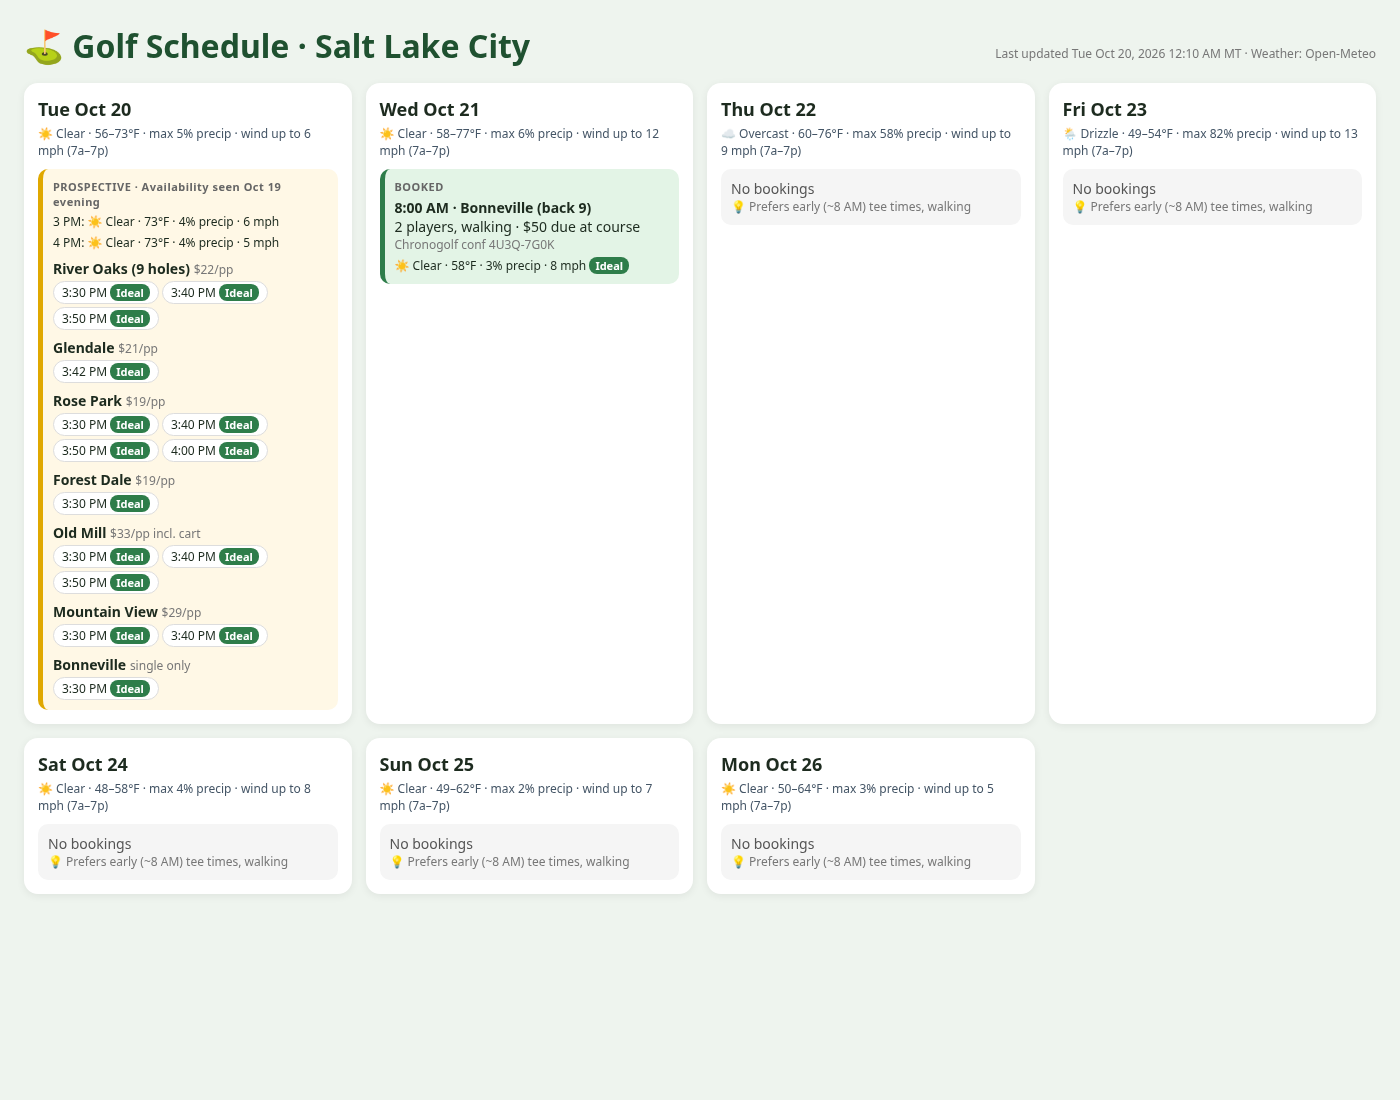
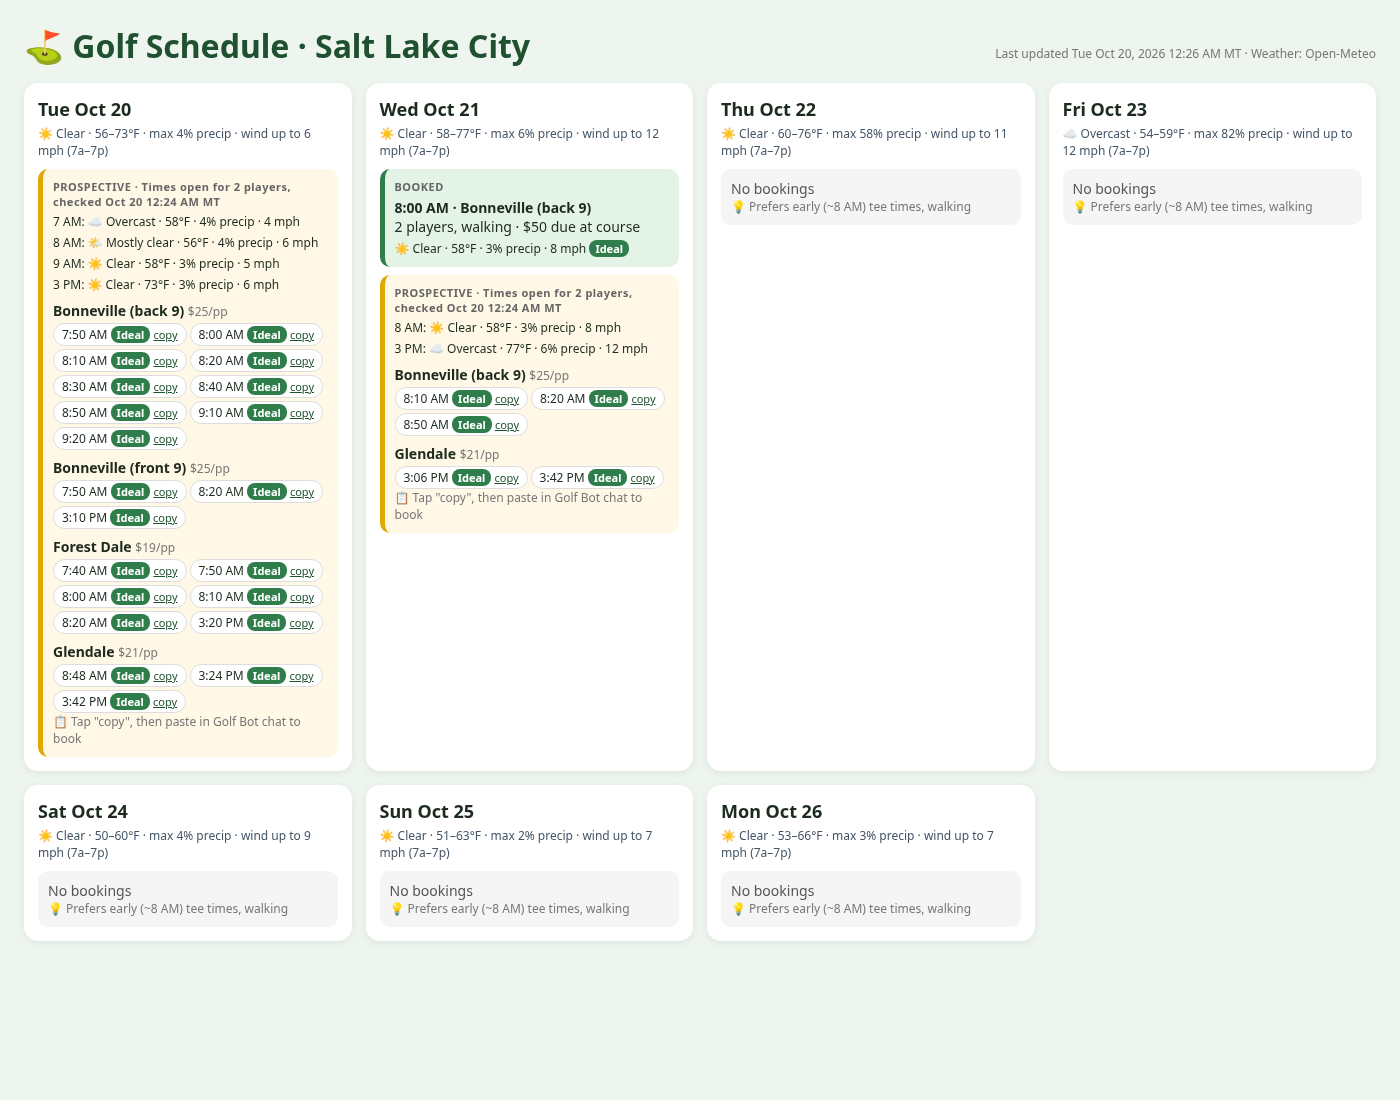
Update schedule 2026-10-20 00:26 MT

diff --git a/index.html b/index.html
@@ -9,5 +9,5 @@ h1{margin:0;color:#1f5130} .top{display:flex;justify-content:space-between;align
 .muted{color:#777;font-size:12px} .wx{font-size:12px;margin-top:4px} .prow{margin-top:8px}
 .copy{font-size:11px;color:#1f5130} .chip{display:inline-block;background:#fff;border:1px solid #ddd;border-radius:14px;padding:2px 8px;margin:3px 3px 0 0;font-size:12px}
 .badge{border-radius:8px;padding:1px 6px;font-size:11px;font-weight:700;color:#fff} .ideal{background:#2e7d4a} .ok{background:#d08b00} .poor{background:#c0392b} .na{background:#888}
-</style></head><body><div class="top"><h1>⛳ Golf Schedule · Salt Lake City</h1><div class="muted">Last updated Tue Oct 20, 2026 12:17 AM MT · Weather: Open-Meteo</div></div>
-<div class="grid"><section class="day"><h2>Tue Oct 20</h2><div class="sum">☀ Clear · 56–73°F · max 4% precip · wind up to 6 mph (7a–7p)</div><div class="slot prospect"><div class="tag">PROSPECTIVE · Availability seen Oct 19 evening</div><div class="wx">3 PM: ☀ Clear · 73°F · 3% precip · 6 mph</div><div class="wx">4 PM: ☀ Clear · 73°F · 3% precip · 5 mph</div><div class="prow"><b>River Oaks (9 holes)</b> <span class="muted">$22/pp</span><div><span class="chip">3:30 PM <span class="badge ideal" title="☀ Clear · 73°F · 3% precip · 6 mph">Ideal</span> <a href="#" class="copy" data-msg="Book River Oaks (9 holes) Tue Oct 20 3:30 PM" onclick="navigator.clipboard.writeText(this.dataset.msg);this.textContent='copied!';return false">copy</a></span><span class="chip">3:40 PM <span class="badge ideal" title="☀ Clear · 73°F · 3% precip · 6 mph">Ideal</span> <a href="#" class="copy" data-msg="Book River Oaks (9 holes) Tue Oct 20 3:40 PM" onclick="navigator.clipboard.writeText(this.dataset.msg);this.textContent='copied!';return false">copy</a></span><span class="chip">3:50 PM <span class="badge ideal" title="☀ Clear · 73°F · 3% precip · 6 mph">Ideal</span> <a href="#" class="copy" data-msg="Book River Oaks (9 holes) Tue Oct 20 3:50 PM" onclick="navigator.clipboard.writeText(this.dataset.msg);this.textContent='copied!';return false">copy</a></span></div></div><div class="prow"><b>Glendale</b> <span class="muted">$21/pp</span><div><span class="chip">3:42 PM <span class="badge ideal" title="☀ Clear · 73°F · 3% precip · 6 mph">Ideal</span> <a href="#" class="copy" data-msg="Book Glendale Tue Oct 20 3:42 PM" onclick="navigator.clipboard.writeText(this.dataset.msg);this.textContent='copied!';return false">copy</a></span></div></div><div class="prow"><b>Rose Park</b> <span class="muted">$19/pp</span><div><span class="chip">3:30 PM <span class="badge ideal" title="☀ Clear · 73°F · 3% precip · 6 mph">Ideal</span> <a href="#" class="copy" data-msg="Book Rose Park Tue Oct 20 3:30 PM" onclick="navigator.clipboard.writeText(this.dataset.msg);this.textContent='copied!';return false">copy</a></span><span class="chip">3:40 PM <span class="badge ideal" title="☀ Clear · 73°F · 3% precip · 6 mph">Ideal</span> <a href="#" class="copy" data-msg="Book Rose Park Tue Oct 20 3:40 PM" onclick="navigator.clipboard.writeText(this.dataset.msg);this.textContent='copied!';return false">copy</a></span><span class="chip">3:50 PM <span class="badge ideal" title="☀ Clear · 73°F · 3% precip · 6 mph">Ideal</span> <a href="#" class="copy" data-msg="Book Rose Park Tue Oct 20 3:50 PM" onclick="navigator.clipboard.writeText(this.dataset.msg);this.textContent='copied!';return false">copy</a></span><span class="chip">4:00 PM <span class="badge ideal" title="☀ Clear · 73°F · 3% precip · 5 mph">Ideal</span> <a href="#" class="copy" data-msg="Book Rose Park Tue Oct 20 4:00 PM" onclick="navigator.clipboard.writeText(this.dataset.msg);this.textContent='copied!';return false">copy</a></span></div></div><div class="prow"><b>Forest Dale</b> <span class="muted">$19/pp</span><div><span class="chip">3:30 PM <span class="badge ideal" title="☀ Clear · 73°F · 3% precip · 6 mph">Ideal</span> <a href="#" class="copy" data-msg="Book Forest Dale Tue Oct 20 3:30 PM" onclick="navigator.clipboard.writeText(this.dataset.msg);this.textContent='copied!';return false">copy</a></span></div></div><div class="prow"><b>Old Mill</b> <span class="muted">$33/pp incl. cart</span><div><span class="chip">3:30 PM <span class="badge ideal" title="☀ Clear · 73°F · 3% precip · 6 mph">Ideal</span> <a href="#" class="copy" data-msg="Book Old Mill Tue Oct 20 3:30 PM" onclick="navigator.clipboard.writeText(this.dataset.msg);this.textContent='copied!';return false">copy</a></span><span class="chip">3:40 PM <span class="badge ideal" title="☀ Clear · 73°F · 3% precip · 6 mph">Ideal</span> <a href="#" class="copy" data-msg="Book Old Mill Tue Oct 20 3:40 PM" onclick="navigator.clipboard.writeText(this.dataset.msg);this.textContent='copied!';return false">copy</a></span><span class="chip">3:50 PM <span class="badge ideal" title="☀ Clear · 73°F · 3% precip · 6 mph">Ideal</span> <a href="#" class="copy" data-msg="Book Old Mill Tue Oct 20 3:50 PM" onclick="navigator.clipboard.writeText(this.dataset.msg);this.textContent='copied!';return false">copy</a></span></div></div><div class="prow"><b>Mountain View</b> <span class="muted">$29/pp</span><div><span class="chip">3:30 PM <span class="badge ideal" title="☀ Clear · 73°F · 3% precip · 6 mph">Ideal</span> <a href="#" class="copy" data-msg="Book Mountain View Tue Oct 20 3:30 PM" onclick="navigator.clipboard.writeText(this.dataset.msg);this.textContent='copied!';return false">copy</a></span><span class="chip">3:40 PM <span class="badge ideal" title="☀ Clear · 73°F · 3% precip · 6 mph">Ideal</span> <a href="#" class="copy" data-msg="Book Mountain View Tue Oct 20 3:40 PM" onclick="navigator.clipboard.writeText(this.dataset.msg);this.textContent='copied!';return false">copy</a></span></div></div><div class="prow"><b>Bonneville</b> <span class="muted">single only</span><div><span class="chip">3:30 PM <span class="badge ideal" title="☀ Clear · 73°F · 3% precip · 6 mph">Ideal</span> <a href="#" class="copy" data-msg="Book Bonneville Tue Oct 20 3:30 PM" onclick="navigator.clipboard.writeText(this.dataset.msg);this.textContent='copied!';return false">copy</a></span></div></div><div class="muted">📋 Tap "copy", then paste in Golf Bot chat to book</div></div></section><section class="day"><h2>Wed Oct 21</h2><div class="sum">☀ Clear · 58–77°F · max 6% precip · wind up to 12 mph (7a–7p)</div><div class="slot booked"><div class="tag">BOOKED</div><b>8:00 AM · Bonneville (back 9)</b><div>2 players, walking · $50 due at course</div><div class="wx">☀ Clear · 58°F · 3% precip · 8 mph <span class="badge ideal">Ideal</span></div></div></section><section class="day"><h2>Thu Oct 22</h2><div class="sum">☀ Clear · 60–76°F · max 58% precip · wind up to 11 mph (7a–7p)</div><div class="slot empty">No bookings<div class="muted">💡 Prefers early (~8 AM) tee times, walking</div></div></section><section class="day"><h2>Fri Oct 23</h2><div class="sum">☁ Overcast · 54–59°F · max 82% precip · wind up to 12 mph (7a–7p)</div><div class="slot empty">No bookings<div class="muted">💡 Prefers early (~8 AM) tee times, walking</div></div></section><section class="day"><h2>Sat Oct 24</h2><div class="sum">☀ Clear · 50–60°F · max 4% precip · wind up to 9 mph (7a–7p)</div><div class="slot empty">No bookings<div class="muted">💡 Prefers early (~8 AM) tee times, walking</div></div></section><section class="day"><h2>Sun Oct 25</h2><div class="sum">☀ Clear · 51–63°F · max 2% precip · wind up to 7 mph (7a–7p)</div><div class="slot empty">No bookings<div class="muted">💡 Prefers early (~8 AM) tee times, walking</div></div></section><section class="day"><h2>Mon Oct 26</h2><div class="sum">☀ Clear · 53–66°F · max 3% precip · wind up to 7 mph (7a–7p)</div><div class="slot empty">No bookings<div class="muted">💡 Prefers early (~8 AM) tee times, walking</div></div></section></div></body></html>
+</style></head><body><div class="top"><h1>⛳ Golf Schedule · Salt Lake City</h1><div class="muted">Last updated Tue Oct 20, 2026 12:26 AM MT · Weather: Open-Meteo</div></div>
+<div class="grid"><section class="day"><h2>Tue Oct 20</h2><div class="sum">☀ Clear · 56–73°F · max 4% precip · wind up to 6 mph (7a–7p)</div><div class="slot prospect"><div class="tag">PROSPECTIVE · Times open for 2 players, checked Oct 20 12:24 AM MT</div><div class="wx">7 AM: ☁ Overcast · 58°F · 4% precip · 4 mph</div><div class="wx">8 AM: 🌤 Mostly clear · 56°F · 4% precip · 6 mph</div><div class="wx">9 AM: ☀ Clear · 58°F · 3% precip · 5 mph</div><div class="wx">3 PM: ☀ Clear · 73°F · 3% precip · 6 mph</div><div class="prow"><b>Bonneville (back 9)</b> <span class="muted">$25/pp</span><div><span class="chip">7:50 AM <span class="badge ideal" title="☁ Overcast · 58°F · 4% precip · 4 mph">Ideal</span> <a href="#" class="copy" data-msg="Book Bonneville (back 9) Tue Oct 20 7:50 AM" onclick="navigator.clipboard.writeText(this.dataset.msg);this.textContent='copied!';return false">copy</a></span><span class="chip">8:00 AM <span class="badge ideal" title="🌤 Mostly clear · 56°F · 4% precip · 6 mph">Ideal</span> <a href="#" class="copy" data-msg="Book Bonneville (back 9) Tue Oct 20 8:00 AM" onclick="navigator.clipboard.writeText(this.dataset.msg);this.textContent='copied!';return false">copy</a></span><span class="chip">8:10 AM <span class="badge ideal" title="🌤 Mostly clear · 56°F · 4% precip · 6 mph">Ideal</span> <a href="#" class="copy" data-msg="Book Bonneville (back 9) Tue Oct 20 8:10 AM" onclick="navigator.clipboard.writeText(this.dataset.msg);this.textContent='copied!';return false">copy</a></span><span class="chip">8:20 AM <span class="badge ideal" title="🌤 Mostly clear · 56°F · 4% precip · 6 mph">Ideal</span> <a href="#" class="copy" data-msg="Book Bonneville (back 9) Tue Oct 20 8:20 AM" onclick="navigator.clipboard.writeText(this.dataset.msg);this.textContent='copied!';return false">copy</a></span><span class="chip">8:30 AM <span class="badge ideal" title="🌤 Mostly clear · 56°F · 4% precip · 6 mph">Ideal</span> <a href="#" class="copy" data-msg="Book Bonneville (back 9) Tue Oct 20 8:30 AM" onclick="navigator.clipboard.writeText(this.dataset.msg);this.textContent='copied!';return false">copy</a></span><span class="chip">8:40 AM <span class="badge ideal" title="🌤 Mostly clear · 56°F · 4% precip · 6 mph">Ideal</span> <a href="#" class="copy" data-msg="Book Bonneville (back 9) Tue Oct 20 8:40 AM" onclick="navigator.clipboard.writeText(this.dataset.msg);this.textContent='copied!';return false">copy</a></span><span class="chip">8:50 AM <span class="badge ideal" title="🌤 Mostly clear · 56°F · 4% precip · 6 mph">Ideal</span> <a href="#" class="copy" data-msg="Book Bonneville (back 9) Tue Oct 20 8:50 AM" onclick="navigator.clipboard.writeText(this.dataset.msg);this.textContent='copied!';return false">copy</a></span><span class="chip">9:10 AM <span class="badge ideal" title="☀ Clear · 58°F · 3% precip · 5 mph">Ideal</span> <a href="#" class="copy" data-msg="Book Bonneville (back 9) Tue Oct 20 9:10 AM" onclick="navigator.clipboard.writeText(this.dataset.msg);this.textContent='copied!';return false">copy</a></span><span class="chip">9:20 AM <span class="badge ideal" title="☀ Clear · 58°F · 3% precip · 5 mph">Ideal</span> <a href="#" class="copy" data-msg="Book Bonneville (back 9) Tue Oct 20 9:20 AM" onclick="navigator.clipboard.writeText(this.dataset.msg);this.textContent='copied!';return false">copy</a></span></div></div><div class="prow"><b>Bonneville (front 9)</b> <span class="muted">$25/pp</span><div><span class="chip">7:50 AM <span class="badge ideal" title="☁ Overcast · 58°F · 4% precip · 4 mph">Ideal</span> <a href="#" class="copy" data-msg="Book Bonneville (front 9) Tue Oct 20 7:50 AM" onclick="navigator.clipboard.writeText(this.dataset.msg);this.textContent='copied!';return false">copy</a></span><span class="chip">8:20 AM <span class="badge ideal" title="🌤 Mostly clear · 56°F · 4% precip · 6 mph">Ideal</span> <a href="#" class="copy" data-msg="Book Bonneville (front 9) Tue Oct 20 8:20 AM" onclick="navigator.clipboard.writeText(this.dataset.msg);this.textContent='copied!';return false">copy</a></span><span class="chip">3:10 PM <span class="badge ideal" title="☀ Clear · 73°F · 3% precip · 6 mph">Ideal</span> <a href="#" class="copy" data-msg="Book Bonneville (front 9) Tue Oct 20 3:10 PM" onclick="navigator.clipboard.writeText(this.dataset.msg);this.textContent='copied!';return false">copy</a></span></div></div><div class="prow"><b>Forest Dale</b> <span class="muted">$19/pp</span><div><span class="chip">7:40 AM <span class="badge ideal" title="☁ Overcast · 58°F · 4% precip · 4 mph">Ideal</span> <a href="#" class="copy" data-msg="Book Forest Dale Tue Oct 20 7:40 AM" onclick="navigator.clipboard.writeText(this.dataset.msg);this.textContent='copied!';return false">copy</a></span><span class="chip">7:50 AM <span class="badge ideal" title="☁ Overcast · 58°F · 4% precip · 4 mph">Ideal</span> <a href="#" class="copy" data-msg="Book Forest Dale Tue Oct 20 7:50 AM" onclick="navigator.clipboard.writeText(this.dataset.msg);this.textContent='copied!';return false">copy</a></span><span class="chip">8:00 AM <span class="badge ideal" title="🌤 Mostly clear · 56°F · 4% precip · 6 mph">Ideal</span> <a href="#" class="copy" data-msg="Book Forest Dale Tue Oct 20 8:00 AM" onclick="navigator.clipboard.writeText(this.dataset.msg);this.textContent='copied!';return false">copy</a></span><span class="chip">8:10 AM <span class="badge ideal" title="🌤 Mostly clear · 56°F · 4% precip · 6 mph">Ideal</span> <a href="#" class="copy" data-msg="Book Forest Dale Tue Oct 20 8:10 AM" onclick="navigator.clipboard.writeText(this.dataset.msg);this.textContent='copied!';return false">copy</a></span><span class="chip">8:20 AM <span class="badge ideal" title="🌤 Mostly clear · 56°F · 4% precip · 6 mph">Ideal</span> <a href="#" class="copy" data-msg="Book Forest Dale Tue Oct 20 8:20 AM" onclick="navigator.clipboard.writeText(this.dataset.msg);this.textContent='copied!';return false">copy</a></span><span class="chip">3:20 PM <span class="badge ideal" title="☀ Clear · 73°F · 3% precip · 6 mph">Ideal</span> <a href="#" class="copy" data-msg="Book Forest Dale Tue Oct 20 3:20 PM" onclick="navigator.clipboard.writeText(this.dataset.msg);this.textContent='copied!';return false">copy</a></span></div></div><div class="prow"><b>Glendale</b> <span class="muted">$21/pp</span><div><span class="chip">8:48 AM <span class="badge ideal" title="🌤 Mostly clear · 56°F · 4% precip · 6 mph">Ideal</span> <a href="#" class="copy" data-msg="Book Glendale Tue Oct 20 8:48 AM" onclick="navigator.clipboard.writeText(this.dataset.msg);this.textContent='copied!';return false">copy</a></span><span class="chip">3:24 PM <span class="badge ideal" title="☀ Clear · 73°F · 3% precip · 6 mph">Ideal</span> <a href="#" class="copy" data-msg="Book Glendale Tue Oct 20 3:24 PM" onclick="navigator.clipboard.writeText(this.dataset.msg);this.textContent='copied!';return false">copy</a></span><span class="chip">3:42 PM <span class="badge ideal" title="☀ Clear · 73°F · 3% precip · 6 mph">Ideal</span> <a href="#" class="copy" data-msg="Book Glendale Tue Oct 20 3:42 PM" onclick="navigator.clipboard.writeText(this.dataset.msg);this.textContent='copied!';return false">copy</a></span></div></div><div class="muted">📋 Tap "copy", then paste in Golf Bot chat to book</div></div></section><section class="day"><h2>Wed Oct 21</h2><div class="sum">☀ Clear · 58–77°F · max 6% precip · wind up to 12 mph (7a–7p)</div><div class="slot booked"><div class="tag">BOOKED</div><b>8:00 AM · Bonneville (back 9)</b><div>2 players, walking · $50 due at course</div><div class="wx">☀ Clear · 58°F · 3% precip · 8 mph <span class="badge ideal">Ideal</span></div></div><div class="slot prospect"><div class="tag">PROSPECTIVE · Times open for 2 players, checked Oct 20 12:24 AM MT</div><div class="wx">8 AM: ☀ Clear · 58°F · 3% precip · 8 mph</div><div class="wx">3 PM: ☁ Overcast · 77°F · 6% precip · 12 mph</div><div class="prow"><b>Bonneville (back 9)</b> <span class="muted">$25/pp</span><div><span class="chip">8:10 AM <span class="badge ideal" title="☀ Clear · 58°F · 3% precip · 8 mph">Ideal</span> <a href="#" class="copy" data-msg="Book Bonneville (back 9) Wed Oct 21 8:10 AM" onclick="navigator.clipboard.writeText(this.dataset.msg);this.textContent='copied!';return false">copy</a></span><span class="chip">8:20 AM <span class="badge ideal" title="☀ Clear · 58°F · 3% precip · 8 mph">Ideal</span> <a href="#" class="copy" data-msg="Book Bonneville (back 9) Wed Oct 21 8:20 AM" onclick="navigator.clipboard.writeText(this.dataset.msg);this.textContent='copied!';return false">copy</a></span><span class="chip">8:50 AM <span class="badge ideal" title="☀ Clear · 58°F · 3% precip · 8 mph">Ideal</span> <a href="#" class="copy" data-msg="Book Bonneville (back 9) Wed Oct 21 8:50 AM" onclick="navigator.clipboard.writeText(this.dataset.msg);this.textContent='copied!';return false">copy</a></span></div></div><div class="prow"><b>Glendale</b> <span class="muted">$21/pp</span><div><span class="chip">3:06 PM <span class="badge ideal" title="☁ Overcast · 77°F · 6% precip · 12 mph">Ideal</span> <a href="#" class="copy" data-msg="Book Glendale Wed Oct 21 3:06 PM" onclick="navigator.clipboard.writeText(this.dataset.msg);this.textContent='copied!';return false">copy</a></span><span class="chip">3:42 PM <span class="badge ideal" title="☁ Overcast · 77°F · 6% precip · 12 mph">Ideal</span> <a href="#" class="copy" data-msg="Book Glendale Wed Oct 21 3:42 PM" onclick="navigator.clipboard.writeText(this.dataset.msg);this.textContent='copied!';return false">copy</a></span></div></div><div class="muted">📋 Tap "copy", then paste in Golf Bot chat to book</div></div></section><section class="day"><h2>Thu Oct 22</h2><div class="sum">☀ Clear · 60–76°F · max 58% precip · wind up to 11 mph (7a–7p)</div><div class="slot empty">No bookings<div class="muted">💡 Prefers early (~8 AM) tee times, walking</div></div></section><section class="day"><h2>Fri Oct 23</h2><div class="sum">☁ Overcast · 54–59°F · max 82% precip · wind up to 12 mph (7a–7p)</div><div class="slot empty">No bookings<div class="muted">💡 Prefers early (~8 AM) tee times, walking</div></div></section><section class="day"><h2>Sat Oct 24</h2><div class="sum">☀ Clear · 50–60°F · max 4% precip · wind up to 9 mph (7a–7p)</div><div class="slot empty">No bookings<div class="muted">💡 Prefers early (~8 AM) tee times, walking</div></div></section><section class="day"><h2>Sun Oct 25</h2><div class="sum">☀ Clear · 51–63°F · max 2% precip · wind up to 7 mph (7a–7p)</div><div class="slot empty">No bookings<div class="muted">💡 Prefers early (~8 AM) tee times, walking</div></div></section><section class="day"><h2>Mon Oct 26</h2><div class="sum">☀ Clear · 53–66°F · max 3% precip · wind up to 7 mph (7a–7p)</div><div class="slot empty">No bookings<div class="muted">💡 Prefers early (~8 AM) tee times, walking</div></div></section></div></body></html>
